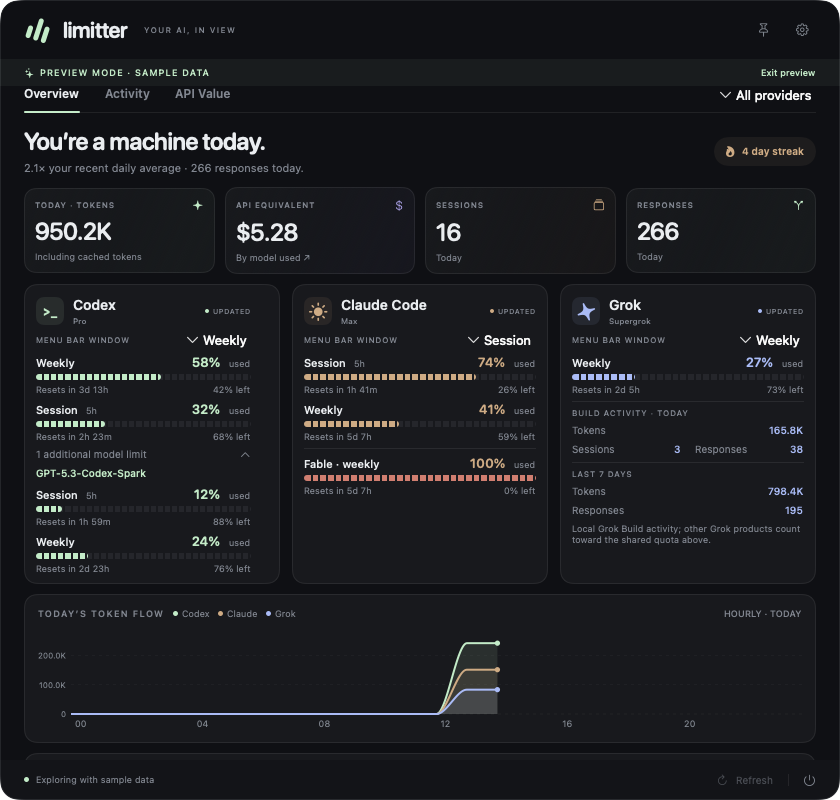
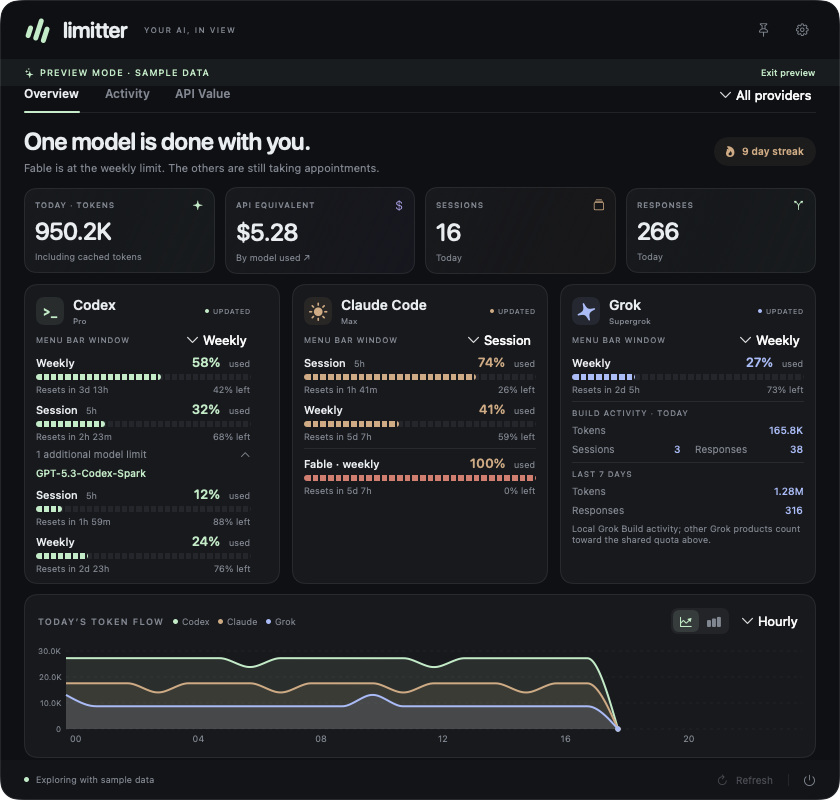
Fill activity card with 21 weeks and refresh documentation

diff --git a/Sources/Limitter/AnalyticsViews.swift b/Sources/Limitter/AnalyticsViews.swift
@@ -207,52 +207,81 @@ struct TokenChart: View {
     }
 }
 
+enum HeatmapLayout {
+    static let tile: CGFloat = 22
+    static let minGap: CGFloat = 5
+    static let labelWidth: CGFloat = 12
+    static let labelGap: CGFloat = 6
+    static let bandSpacing: CGFloat = 24
+    static let statsWidth: CGFloat = 108
+    /// Card interior on the fixed dashboard: window padding, then the card’s own padding.
+    static var columnWidth: CGFloat { DashboardLayout.width - 48 - 36 - labelWidth - labelGap - bandSpacing - 1 - bandSpacing - statsWidth }
+    static var weeks: Int { max(1, Int((columnWidth + minGap) / (tile + minGap))) }
+    static var columnGap: CGFloat {
+        let weeks = weeks
+        guard weeks > 1 else { return minGap }
+        return (columnWidth - CGFloat(weeks) * tile) / CGFloat(weeks - 1)
+    }
+    /// Days from the Monday of the first visible week through today.
+    static func historyDayCount(now: Date = Date(), calendar: Calendar = .current) -> Int {
+        let today = calendar.startOfDay(for: now)
+        let sinceMonday = (calendar.component(.weekday, from: today) + 5) % 7
+        return (weeks - 1) * 7 + sinceMonday + 1
+    }
+}
+
 struct ActivityHeatmap: View {
     let data: HeatmapData
     @State private var selectedDay: Date?
     @State private var hoveredDay: Date?
     private let calendar = Calendar.current
     private var dates: [Date?] {
-        guard let first = data.days.first?.date, let last = data.days.last?.date else { return [] }
-        let padding = (calendar.component(.weekday, from: first) + 5) % 7 // Monday first.
-        var result = Array<Date?>(repeating: nil, count: padding) + data.days.map { Optional($0.date) }
-        while result.count % 7 != 0 { result.append(nil) }
-        return result.map { date in date.flatMap { $0 <= last ? $0 : nil } }
+        let weeks = HeatmapLayout.weeks
+        let today = calendar.startOfDay(for: Date())
+        let sinceMonday = (calendar.component(.weekday, from: today) + 5) % 7
+        guard let monday = calendar.date(byAdding: .day, value: -sinceMonday, to: today),
+              let start = calendar.date(byAdding: .day, value: -(weeks - 1) * 7, to: monday) else { return [] }
+        return (0..<(weeks * 7)).map { offset in
+            guard let date = calendar.date(byAdding: .day, value: offset, to: start), date <= today else { return nil }
+            return date
+        }
     }
     var body: some View {
         let lookup = Dictionary(uniqueKeysWithValues: data.days.map { ($0.date, $0) })
         let values = dates
         let peak = data.peak
-        let focus = hoveredDay ?? selectedDay ?? data.days.last?.date
+        let focus = hoveredDay ?? selectedDay ?? calendar.startOfDay(for: Date())
         return VStack(alignment: .leading, spacing: 17) {
             HStack {
                 eyebrow("THE DAILY COMMITMENT")
                 Spacer()
-                Text("12 WEEKS OF AI ACTIVITY").font(.system(size: 8, weight: .medium)).tracking(0.7).foregroundStyle(Theme.muted)
+                Text("\(HeatmapLayout.weeks) WEEKS OF AI ACTIVITY").font(.system(size: 8, weight: .medium)).tracking(0.7).foregroundStyle(Theme.muted)
             }
-            HStack(alignment: .center, spacing: 24) {
-              HStack(alignment: .top, spacing: 6) {
+            HStack(alignment: .center, spacing: HeatmapLayout.bandSpacing) {
+              HStack(alignment: .top, spacing: HeatmapLayout.labelGap) {
                 VStack(spacing: 5) {
                     Color.clear.frame(height: 14)
-                    ForEach(0..<7) { index in Text(["M", "", "W", "", "F", "", ""][index]).font(.system(size: 8)).foregroundStyle(Theme.muted).frame(width: 12, height: 22) }
+                    ForEach(0..<7) { index in Text(["M", "", "W", "", "F", "", ""][index]).font(.system(size: 8)).foregroundStyle(Theme.muted).frame(width: HeatmapLayout.labelWidth, height: HeatmapLayout.tile) }
                 }
-                ForEach(0..<(values.count / 7), id: \.self) { week in
-                    VStack(spacing: 5) {
-                        Text(monthLabel(week: week, dates: values)).font(.system(size: 8)).foregroundStyle(Theme.muted).frame(height: 14)
-                        ForEach(0..<7) { weekday in
-                            let date = values[week * 7 + weekday]
-                            let count = date.map { lookup[$0]?.responses ?? 0 } ?? 0
-                            Button { selectedDay = date } label: {
-                                RoundedRectangle(cornerRadius: 3)
-                                    .fill(date == nil ? .clear : count == 0 ? Theme.text.opacity(0.055) : Theme.mint.opacity(0.22 + 0.78 * sqrt(Double(count) / Double(peak))))
-                                    .overlay(RoundedRectangle(cornerRadius: 3).strokeBorder(date != nil && date == focus ? Theme.mint : .clear, lineWidth: 1.5))
-                                    .frame(height: 22)
-                            }.disabled(date == nil).onHover { hovered in
-                                if hovered { if hoveredDay != date { hoveredDay = date } }
-                                else if hoveredDay == date { hoveredDay = nil }
-                            }.accessibilityLabel(date.flatMap { lookup[$0]?.accessibilityLabel } ?? "Outside history")
-                        }
-                    }.frame(width: 22)
+                HStack(alignment: .top, spacing: HeatmapLayout.columnGap) {
+                    ForEach(0..<(values.count / 7), id: \.self) { week in
+                        VStack(spacing: 5) {
+                            Text(monthLabel(week: week, dates: values)).font(.system(size: 8)).foregroundStyle(Theme.muted).frame(height: 14)
+                            ForEach(0..<7) { weekday in
+                                let date = values[week * 7 + weekday]
+                                let count = date.map { lookup[$0]?.responses ?? 0 } ?? 0
+                                Button { selectedDay = date } label: {
+                                    RoundedRectangle(cornerRadius: 3)
+                                        .fill(date == nil ? .clear : count == 0 ? Theme.text.opacity(0.055) : Theme.mint.opacity(0.22 + 0.78 * sqrt(Double(count) / Double(peak))))
+                                        .overlay(RoundedRectangle(cornerRadius: 3).strokeBorder(date != nil && date == focus ? Theme.mint : .clear, lineWidth: 1.5))
+                                        .frame(width: HeatmapLayout.tile, height: HeatmapLayout.tile)
+                                }.disabled(date == nil).onHover { hovered in
+                                    if hovered { if hoveredDay != date { hoveredDay = date } }
+                                    else if hoveredDay == date { hoveredDay = nil }
+                                }.accessibilityLabel(date.flatMap { lookup[$0]?.accessibilityLabel } ?? "Outside history")
+                            }
+                        }.frame(width: HeatmapLayout.tile)
+                    }
                 }
             }
               Rectangle().fill(Theme.line).frame(width: 1, height: 170)
@@ -260,15 +289,13 @@ struct ActivityHeatmap: View {
                   cadenceMetric("CURRENT STREAK", value: data.summary.currentStreak, unit: "days")
                   cadenceMetric("BEST STREAK", value: data.summary.bestStreak, unit: "days")
                   cadenceMetric("ACTIVE DAYS", value: data.summary.activeDays, unit: "of \(data.days.count)")
-              }.frame(maxWidth: .infinity, alignment: .leading)
+              }.frame(width: HeatmapLayout.statsWidth, alignment: .leading)
             }
             HStack(spacing: 5) {
-                if let focus {
-                    Text(focus, format: .dateTime.month(.abbreviated).day()).foregroundStyle(Theme.text)
-                    Text("· \(lookup[focus]?.responses ?? 0) responses").foregroundStyle(Theme.muted)
-                    if let day = data.days.first(where: { $0.date == focus }) {
-                        Text("· " + Format.compact(day.tokens) + " tokens").foregroundStyle(Theme.muted)
-                    }
+                Text(focus, format: .dateTime.month(.abbreviated).day()).foregroundStyle(Theme.text)
+                Text("· \(lookup[focus]?.responses ?? 0) responses").foregroundStyle(Theme.muted)
+                if let day = data.days.first(where: { $0.date == focus }) {
+                    Text("· " + Format.compact(day.tokens) + " tokens").foregroundStyle(Theme.muted)
                 }
                 Spacer()
                 Text("Less").foregroundStyle(Theme.muted)

diff --git a/Sources/Limitter/UsageStore.swift b/Sources/Limitter/UsageStore.swift
@@ -95,7 +95,7 @@ final class UsageStore: ObservableObject {
         refreshing = true
         let fetchAccount = force || Date().timeIntervalSince(lastAccountRefresh) >= 120
         Task {
-            async let newHistory = reader.read(dayCount: 84)
+            async let newHistory = reader.read(dayCount: HeatmapLayout.historyDayCount())
             if fetchAccount {
                 async let claudeResult = Task.detached(priority: .utility) { () -> Result<ProviderLimits, Error> in
                     Result { try ClaudeUsageConnection().fetch() }
@@ -238,25 +238,26 @@ final class UsageStore: ObservableObject {
         var sample = HistorySnapshot()
         let codex = [245000, 410000, 295000, 530000, 380000, 715000, 482600]
         let claude = [180000, 230000, 320000, 210000, 460000, 345000, 301800]
-        sample.days = (0..<84).map { index in
-            var day = UsageDay(date: calendar.date(byAdding: .day, value: index - 83, to: calendar.startOfDay(for: now))!)
+        let dayCount = HeatmapLayout.historyDayCount(now: now, calendar: calendar)
+        sample.days = (0..<dayCount).map { index in
+            var day = UsageDay(date: calendar.date(byAdding: .day, value: index - (dayCount - 1), to: calendar.startOfDay(for: now))!)
             func tokens(_ count: Int) -> TokenUsage { TokenUsage(input: count / 5, output: count / 10, cached: count - count / 5 - count / 10) }
             let valueIndex = (index + 5) % 7
-            let quiet = index < 80 && (index % 13 == 0 || index % 13 == 1)
+            let quiet = index < dayCount - 4 && (index % 13 == 0 || index % 13 == 1)
             let scale = 0.35 + Double((index * 7) % 11) / 10
             day.codex = tokens(quiet ? 0 : Int(Double(codex[valueIndex]) * scale))
             day.claude = tokens(quiet ? 0 : Int(Double(claude[valueIndex]) * scale))
             day.grok = tokens(quiet ? 0 : Int(Double(claude[(valueIndex + 2) % 7]) * scale * 0.65)); return day
         }
         sample.today = [.codex: TokenUsage(input: 98200, output: 42400, cached: 342000), .claude: TokenUsage(input: 55200, output: 26600, cached: 208000, cacheWrite: 12000), .grok: TokenUsage(input: 24600, output: 15200, cached: 126000)]
-        sample.days[83].codex = sample.today[.codex]!
-        sample.days[83].claude = sample.today[.claude]!
-        sample.days[83].grok = sample.today[.grok]!
+        sample.days[dayCount - 1].codex = sample.today[.codex]!
+        sample.days[dayCount - 1].claude = sample.today[.claude]!
+        sample.days[dayCount - 1].grok = sample.today[.grok]!
         sample.sessions = [.codex: 8, .claude: 5, .grok: 3]; sample.requests = [.codex: 142, .claude: 86, .grok: 38]; sample.available = Set(Provider.allCases)
         for provider in Provider.allCases {
             for (dayIndex, day) in sample.days.enumerated() {
                 let total = day.tokens(for: provider)
-                let count = dayIndex == 83 ? (sample.requests[provider] ?? 0) : total / 4000
+                let count = dayIndex == dayCount - 1 ? (sample.requests[provider] ?? 0) : total / 4000
                 for index in 0..<count {
                     let id = "\(provider.rawValue)-\(dayIndex)-\(index)"
                     let session = "\(dayIndex)-\(index % (sample.sessions[provider] ?? 1))"
@@ -264,7 +265,7 @@ final class UsageStore: ObservableObject {
                     func share(_ value: Int) -> Int { value / count + (index < value % count ? 1 : 0) }
                     let usage = TokenUsage(input: share(totalUsage.input), output: share(totalUsage.output), cached: share(totalUsage.cached), cacheWrite: share(totalUsage.cacheWrite))
                     let model = provider == .codex ? "gpt-6-astra" : provider == .grok ? "grok-4.6" : ["claude-opus-5", "claude-opus-4-8", "claude-fable-5", "claude-fable-5-1"][index % 4]
-                    sample.records[provider, default: []].append(UsageRecord(id: id, session: session, date: day.date.addingTimeInterval(Double(index) / Double(max(1, count)) * (dayIndex == 83 ? max(0, now.timeIntervalSince(day.date) - 10) : 80000)), usage: usage, model: model))
+                    sample.records[provider, default: []].append(UsageRecord(id: id, session: session, date: day.date.addingTimeInterval(Double(index) / Double(max(1, count)) * (dayIndex == dayCount - 1 ? max(0, now.timeIntervalSince(day.date) - 10) : 80000)), usage: usage, model: model))
                 }
             }
         }

diff --git a/Sources/Limitter/App.swift b/Sources/Limitter/App.swift
@@ -270,10 +270,10 @@ final class AppDelegate: NSObject, NSApplicationDelegate, NSWindowDelegate {
         store.preferences.setTokenPeriod(.month, for: .grok)
         require(store.preferences.tokenPeriod(for: .codex) == .today && store.preferences.quotaPeriod(for: .claude) == .session, "Grok controls must preserve other provider periods")
         store.selectedProvider = .grok
-        require(store.overviewUsage.total == 165800 && store.currentSession?.provider == .grok && store.heatmap.days.count == 84, "Grok filtering must populate tokens, sessions, and heatmap")
+        require(store.overviewUsage.total == 165800 && store.currentSession?.provider == .grok && store.heatmap.days.count == HeatmapLayout.historyDayCount(), "Grok filtering must populate tokens, sessions, and heatmap")
         store.selectedProvider = nil
         require(store.currentSession?.state() == .running, "The current session should prefer a fresh running session")
-        require(store.apiCost > 0 && store.history.days.count == 84, "API equivalent and 12-week activity should be populated")
+        require(store.apiCost > 0 && store.history.days.count == HeatmapLayout.historyDayCount(), "API equivalent and the full activity grid should be populated")
         let claudePrice = store.estimate(for: .claude, days: 1)
         require(claudePrice.isComplete && claudePrice.rows.count == 4 && claudePrice.totalTokens == 301800, "Claude pricing must include both Opus and Fable versions without losing tokens")
         let fable = QuotaPresentation(provider: .claude, snapshot: store.limits[.claude], period: .weekly, bucketID: "model:fable")
@@ -322,7 +322,7 @@ final class AppDelegate: NSObject, NSApplicationDelegate, NSWindowDelegate {
         let playful = WelcomeMessage(activity: store.activity, providers: store.providers, limits: store.limits, playful: true, tokens: store.overviewUsage.total)
         let factual = WelcomeMessage(activity: store.activity, providers: store.providers, limits: store.limits, playful: false, tokens: store.overviewUsage.total)
         require(!playful.title.isEmpty && !playful.detail.isEmpty && factual.title != playful.title, "The daily note needs a playful voice and a factual one")
-        print("Native UI checks passed: launch, close, reopen, live theme, menu readout, icon fallback, hidden providers, Grok integration, independent page/provider periods, today-only Overview, histogram buckets, model ordering, daily notes, current session, mixed Opus/Fable pricing, Fable weekly cap, and 84-day activity. No preferences were saved.")
+        print("Native UI checks passed: launch, close, reopen, live theme, menu readout, icon fallback, hidden providers, Grok integration, independent page/provider periods, today-only Overview, histogram buckets, model ordering, daily notes, current session, mixed Opus/Fable pricing, Fable weekly cap, and full-width activity history. No preferences were saved.")
         NSApp.terminate(nil)
     }
     func applicationWillTerminate(_ notification: Notification) {

diff --git a/Sources/LimitterCore/HistoryReader.swift b/Sources/LimitterCore/HistoryReader.swift
@@ -111,6 +111,8 @@ public enum TranscriptParser {
 }
 
 public actor HistoryReader {
+    /// Long enough for the activity grid to fill the dashboard without widening the tiles.
+    public static let maximumDayCount = 182
     private struct CachedFile { let size: Int; let modified: Date; let transcript: ParsedTranscript }
     private var cache: [String: CachedFile] = [:]
     private let roots: [Provider: [URL]]
@@ -124,7 +126,7 @@ public actor HistoryReader {
     public func read(now: Date = Date(), calendar: Calendar = .current, dayCount: Int = 7, providers: [Provider] = Provider.allCases) -> HistorySnapshot {
         var result = HistorySnapshot()
         let today = calendar.startOfDay(for: now)
-        let count = max(1, min(84, dayCount))
+        let count = max(1, min(Self.maximumDayCount, dayCount))
         let start = calendar.date(byAdding: .day, value: 1 - count, to: today)!
         result.days = (0..<count).map { UsageDay(date: calendar.date(byAdding: .day, value: $0, to: start)!) }
         var visited: Set<String> = []

diff --git a/README.md b/README.md
@@ -12,7 +12,9 @@ Built with SwiftUI, AppKit, and Swift Charts, with no third-party package depend
 
 - **Menu bar usage:** choose providers, session or weekly limits, used or remaining percentages, and token totals.
 - **Provider dashboard:** quota meters, reset countdowns, and model-specific limits when reported by the provider.
-- **Local activity:** token lines or histograms with adjustable buckets, an activity heatmap, recent sessions, and per-model usage across available local logs.
+- **Local activity:** token lines or stacked histograms with adjustable time buckets, recent sessions, and per-model usage across available local logs.
+- **Daily commitment:** a 21-week activity grid fills the card with fixed-size square tiles, alongside current streak, best streak, and active-day counts. Hover or select a day to inspect responses and tokens.
+- **Daily notes:** optional playful messages reflect today’s activity, quota state, and streak; a factual mode is also available.
 - **API cost estimates:** estimate the USD API equivalent of recorded tokens, with a model breakdown you can sort by tokens or API value, and an optional custom benchmark.
 - **Native controls:** dark, light, or system appearance; a pinnable dashboard; and launch at login.
 - **Explicit data states:** unavailable and expired readings stay visible as such; stale Claude fallback readings are marked as last known.
@@ -20,6 +22,10 @@ Built with SwiftUI, AppKit, and Swift Charts, with no third-party package depend
 Account limits and local token totals measure different things: limits come from
 provider accounts, while activity comes from logs on this Mac. API estimates are
 hypothetical token costs, not subscription charges or invoices.
+
+![Limitter Activity dashboard showing the full-width 21-week grid](docs/images/activity.png)
+
+*Sample data. The final week includes only dates through today.*
 
 ## Build and run
 

diff --git a/docs/development.md b/docs/development.md
@@ -31,7 +31,7 @@ dist/Limitter.app/Contents/MacOS/Limitter --diagnose-grok
 
 ## UI checks and previews
 
-`--verify-ui` checks native settings-window launch, close, and reopen behavior; live appearance changes; the actual status-button readout; icon fallback; provider filtering; independent Codex/Claude/Grok and Activity/API Value timeframes; today-only Overview totals; line and histogram buckets on Overview and Activity; API Value model ordering; the daily note; current-session selection; API estimates; and 84-day history. It uses sample data and does not save preferences. It does not simulate physical mouse movement or menu selection.
+`--verify-ui` checks native settings-window launch, close, and reopen behavior; live appearance changes; the actual status-button readout; icon fallback; provider filtering; independent Codex/Claude/Grok and Activity/API Value timeframes; today-only Overview totals; line and histogram buckets on Overview and Activity; API Value model ordering; the daily note; current-session selection; API estimates; and the history needed for the full-width activity grid. It uses sample data and does not save preferences. It does not simulate physical mouse movement or menu selection.
 
 ```sh
 dist/Limitter.app/Contents/MacOS/Limitter --verify-ui
@@ -69,8 +69,9 @@ The build script compiles for the host architecture and signs the bundle ad hoc.
 It does not produce a universal, Developer ID-signed, or notarized release. Keep
 build outputs, connector backups, and local diagnostic artifacts out of Git.
 
-To regenerate the README screenshot using sample data:
+To regenerate the README screenshots using sample data:
 
 ```sh
 dist/Limitter.app/Contents/MacOS/Limitter --render-preview "$PWD/docs/images/overview.png" --preview-mixed
+dist/Limitter.app/Contents/MacOS/Limitter --render-preview "$PWD/docs/images/activity.png" --preview-activity
 ```
